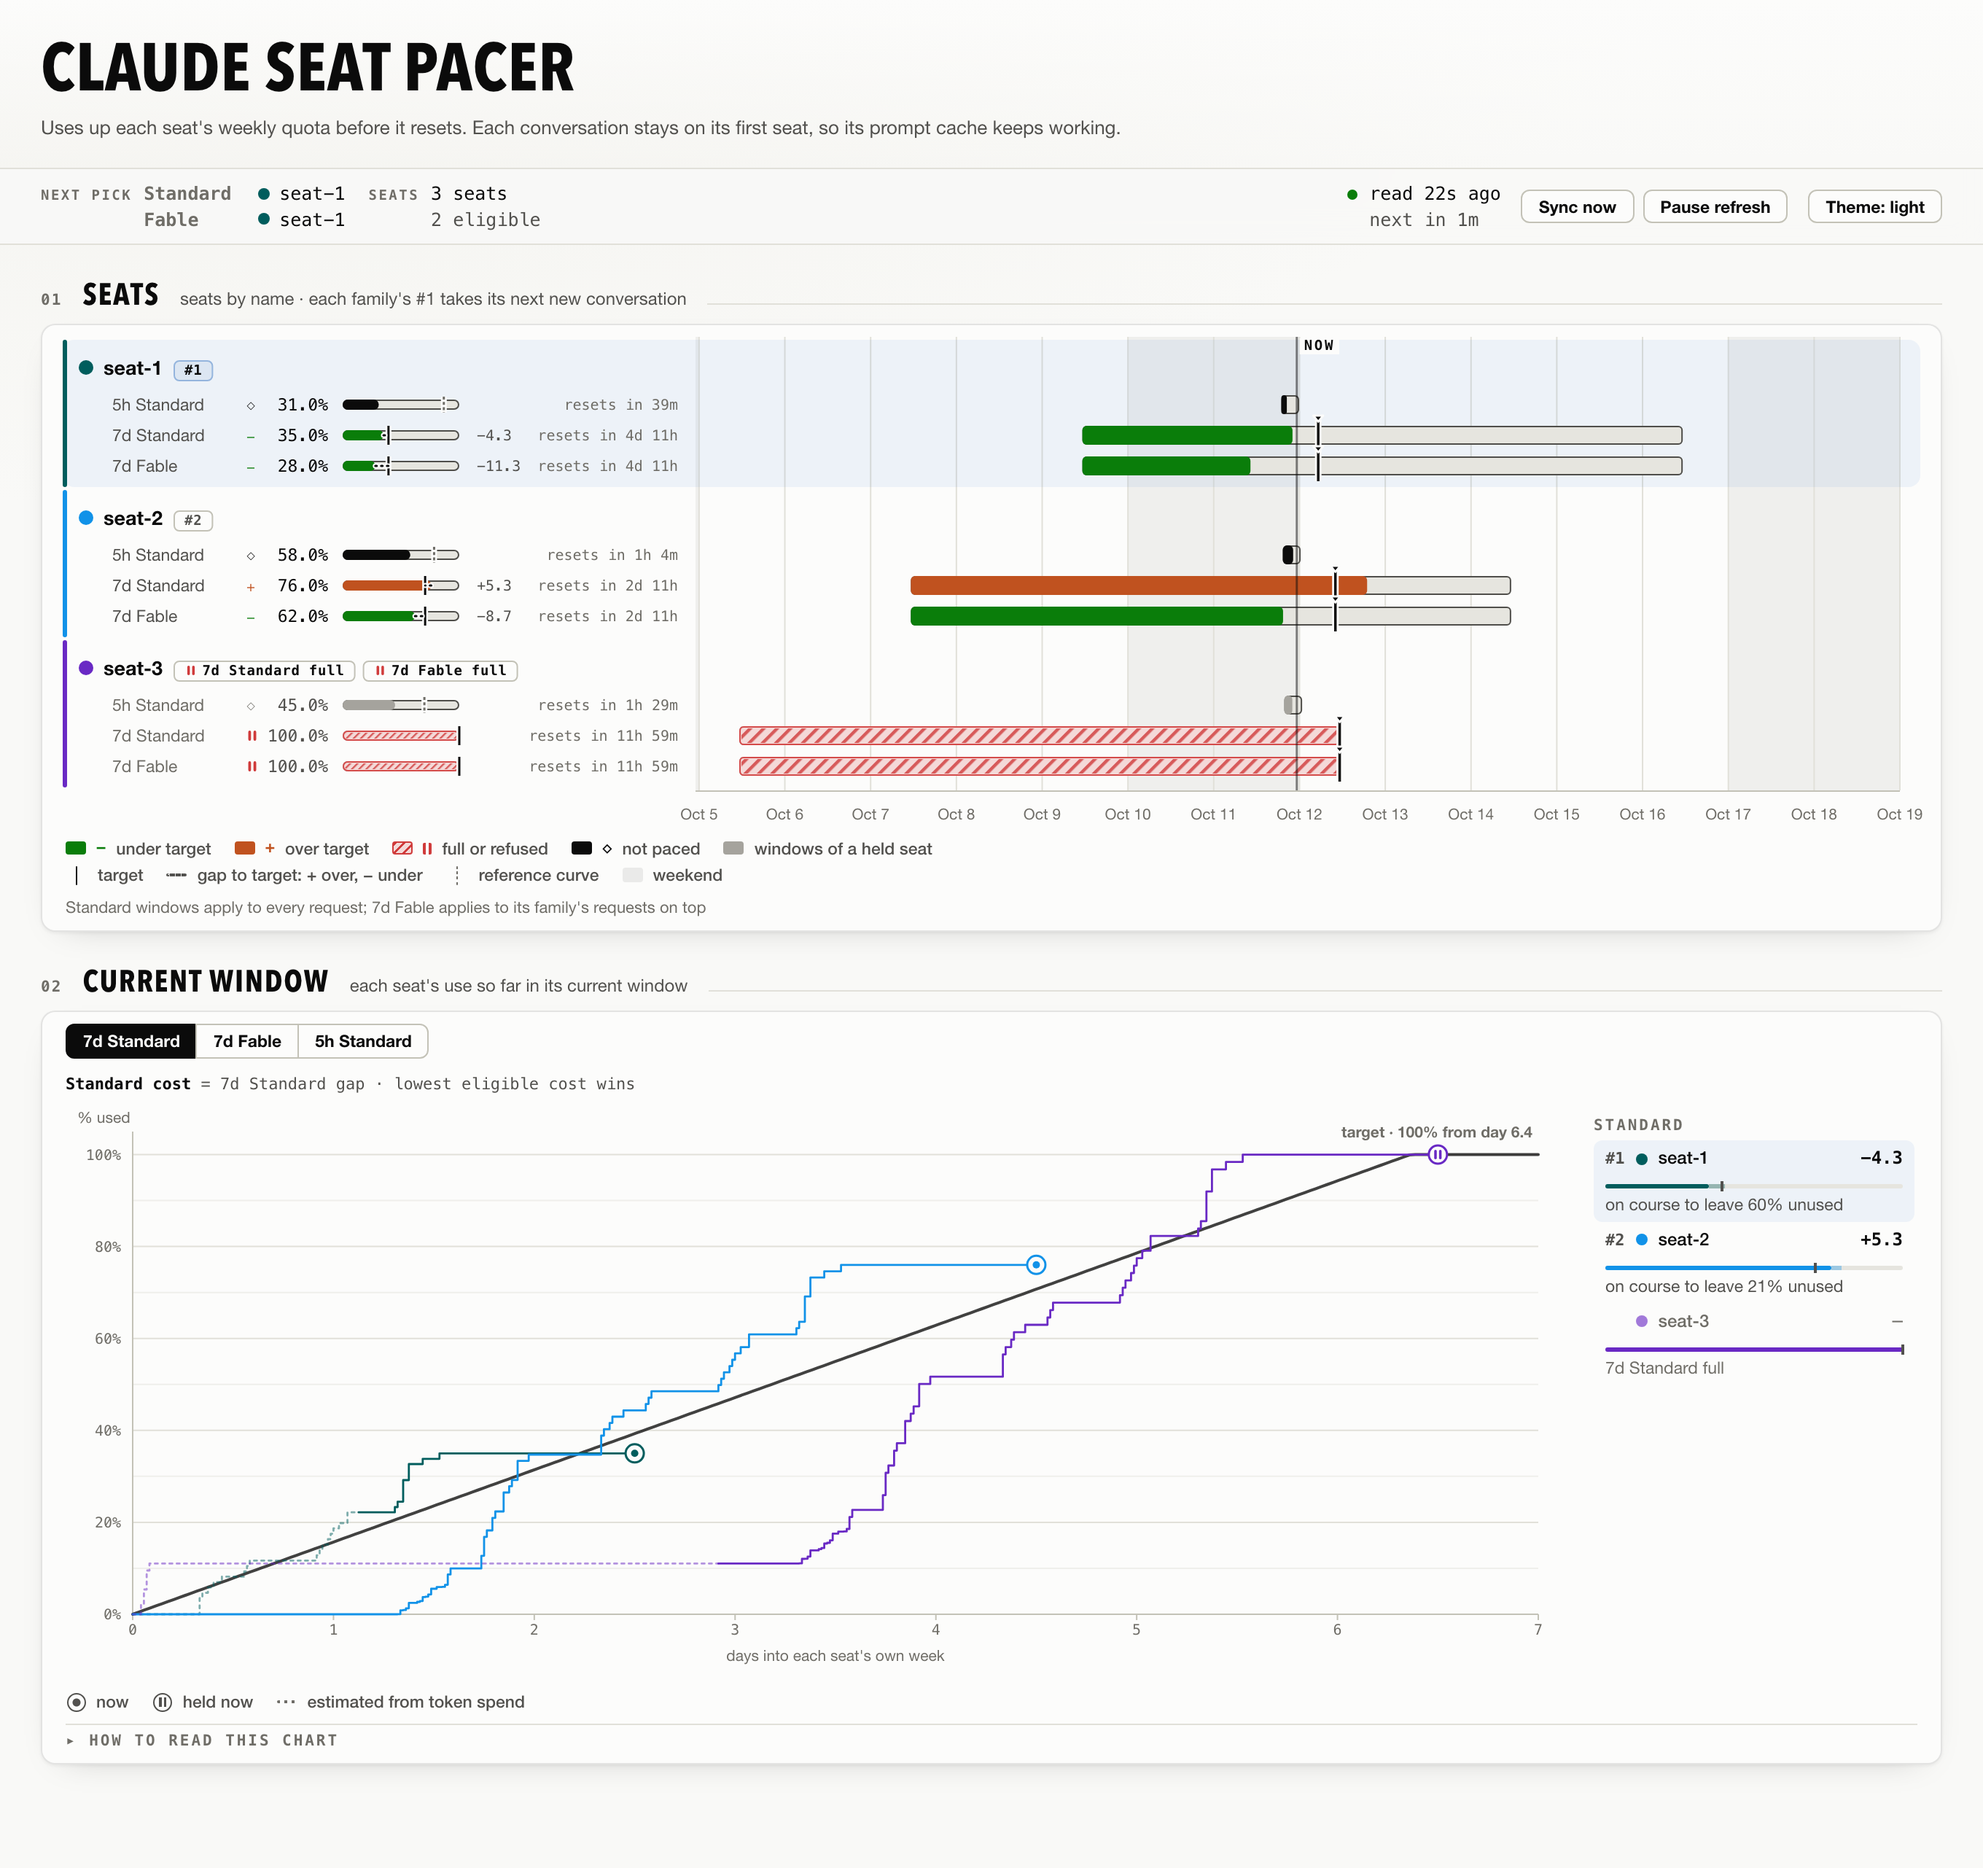
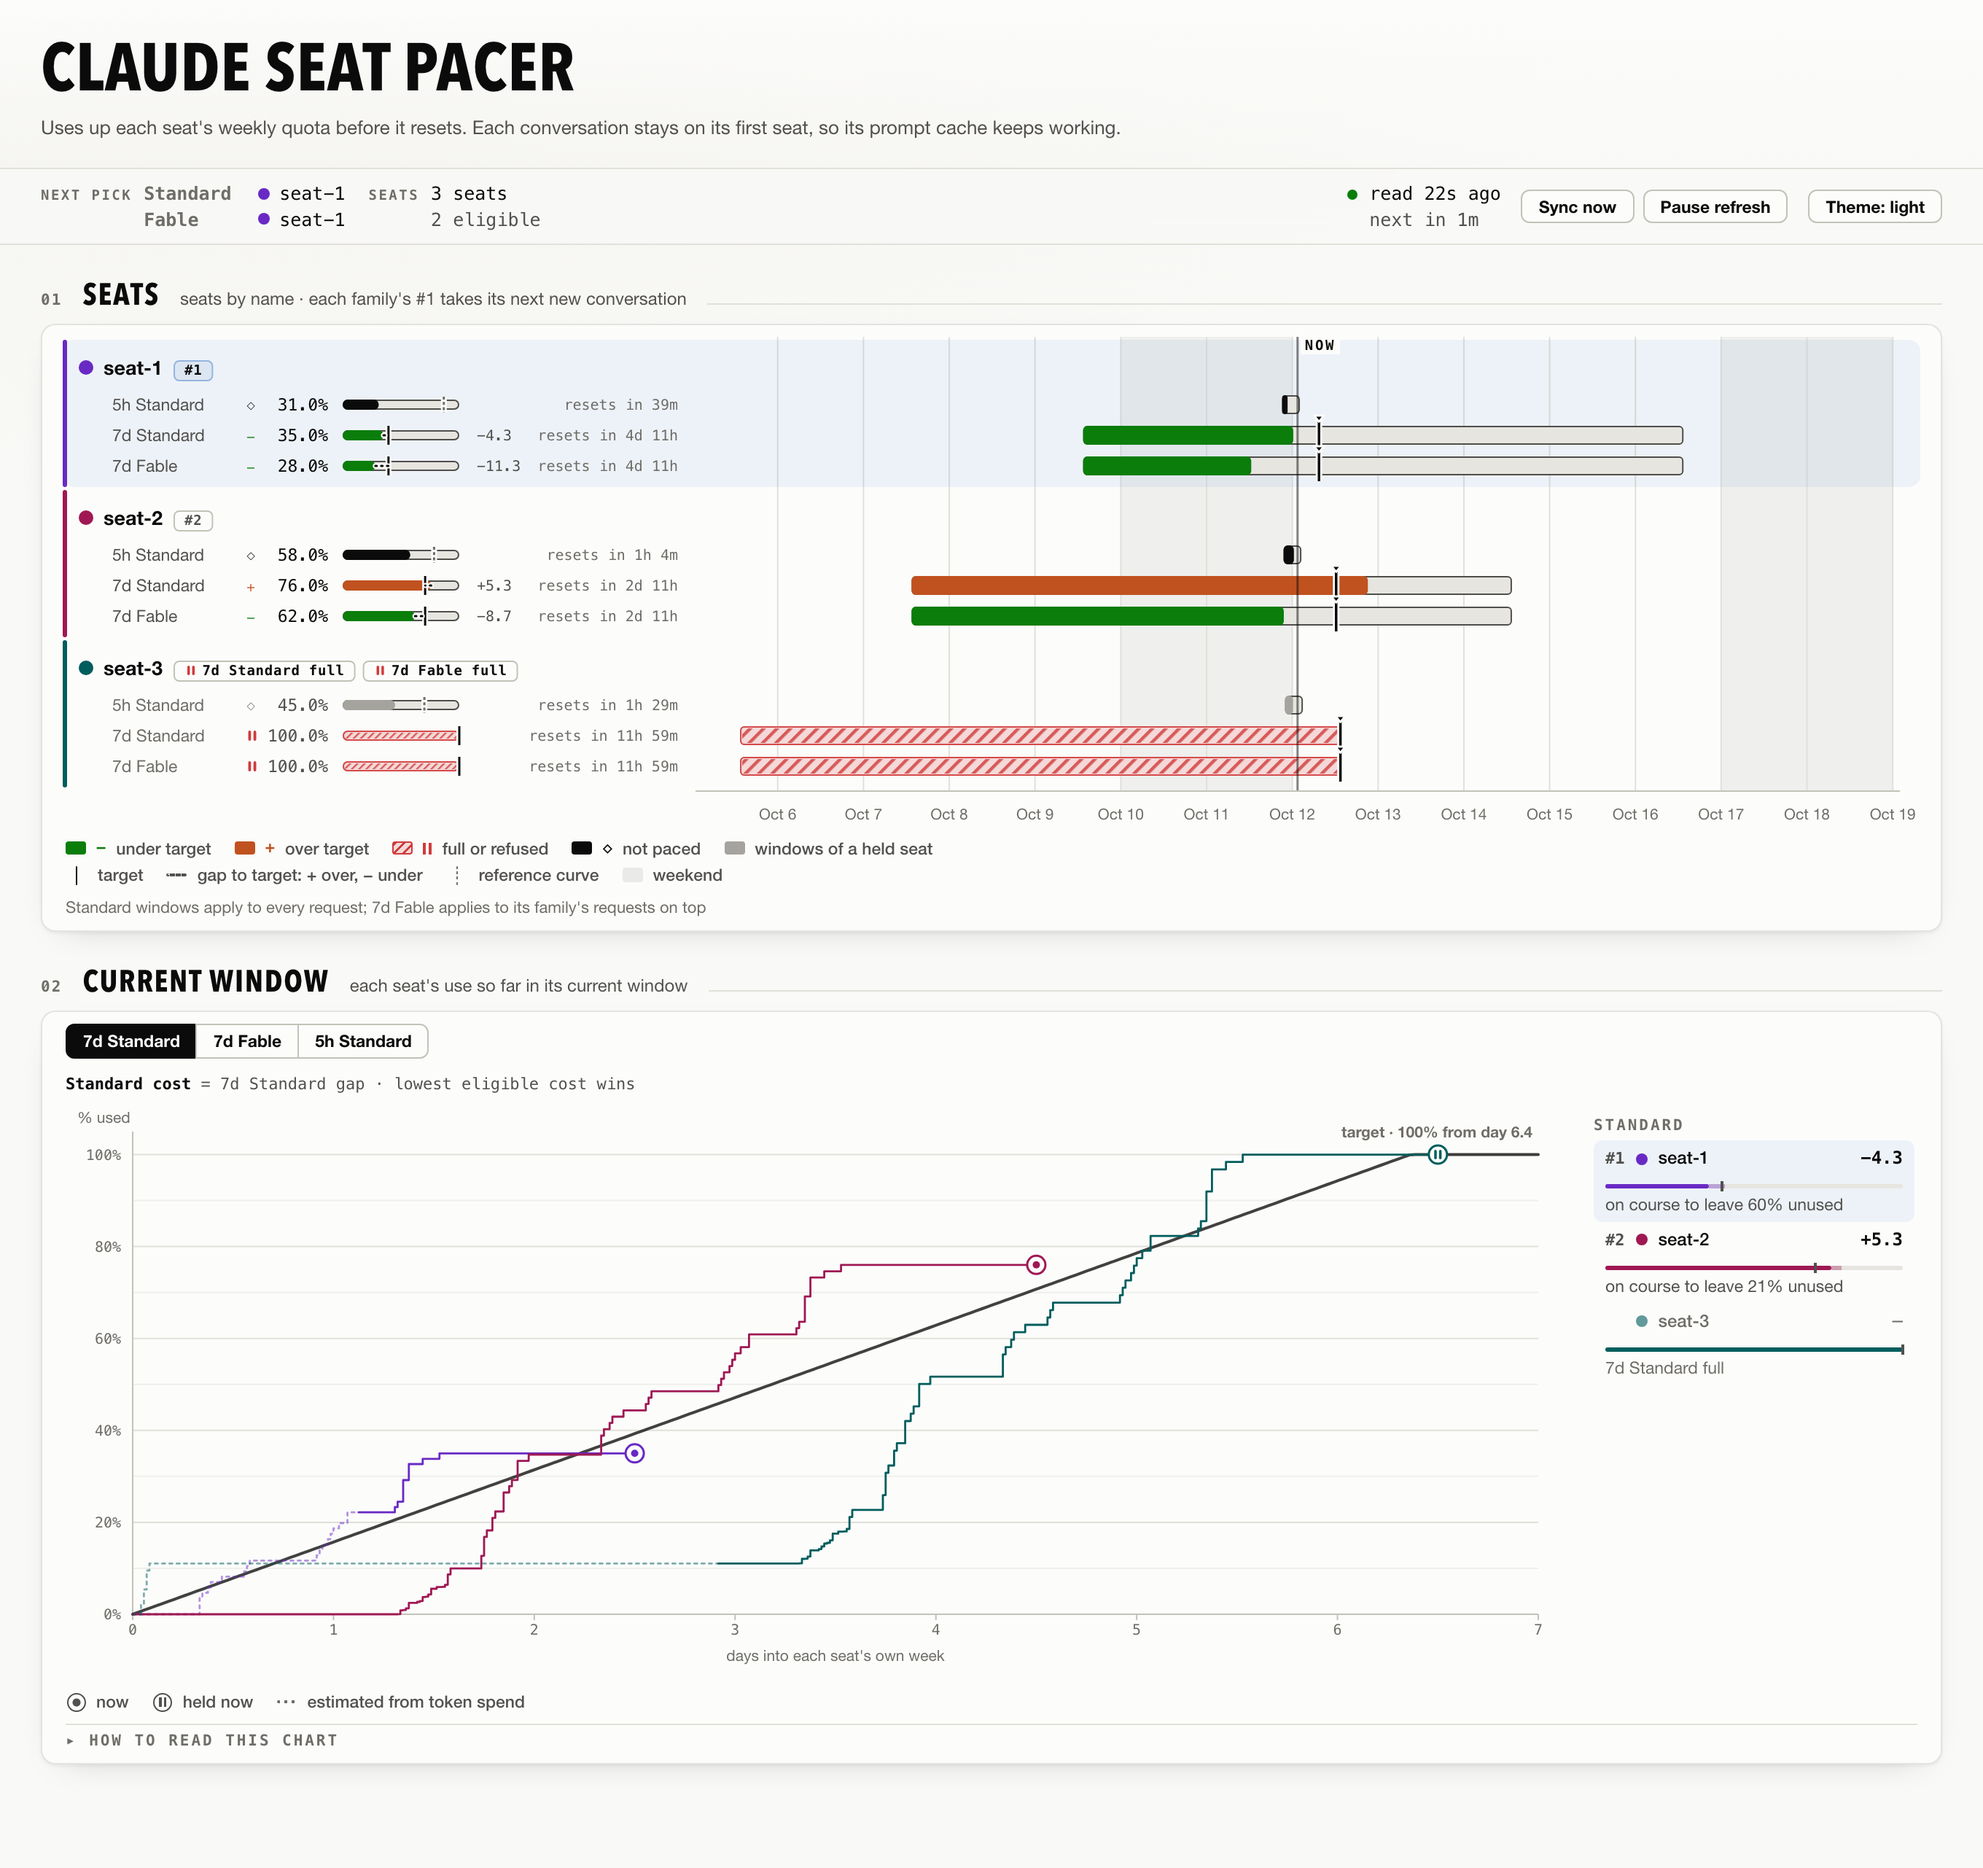
Order the seat hues so the first six stay apart, and keep Cyan 50 off seat 2
The first eight seats take IBM Carbon's categorical order without its reds,
Cyan 50, Green 60, Teal 50 and Purple 50; those four follow, each furthest
from the hues before it. Every pool of up to six seats now keeps each pair at
least ΔE 15 apart, where Cyan 50 beside Blue 50 was ΔE 10.5 apart at six, and
the palette test holds the first six to that bound. Screenshots recaptured.

diff --git a/internal/web/index.html b/internal/web/index.html
@@ -40,26 +40,29 @@
   --critical:     #d03b3b;
   --warning:      #fab219;
 
-  /* Twelve identity hues: IBM Carbon's categorical sequence in its published
-     order, with its two reds left out, since red on a seat reads as an alarm.
-     Carbon ships a light and a dark step for each, and every step clears 3:1
-     on its card. The first four sit at least ΔE 15 apart for typical colour
-     vision (palette_test.go); past them, and under colour-vision deficiency,
-     some pairs sit close, and the seat's name carries the identity. Some hues
-     sit close to a state's hue; every state carries a glyph, so none rests on
-     its hue. */
+  /* Twelve identity hues from IBM Carbon's categorical palette, without its
+     two reds: red on a seat reads as an alarm, and Red 10 is the dark
+     theme's ink. The first eight keep Carbon's published order with Cyan 50,
+     Green 60, Teal 50 and Purple 50 taken out, so the first six sit at least
+     ΔE 15 apart for typical colour vision (palette_test.go); those four
+     follow, each placed furthest from the hues before it, since Cyan 50 sits
+     close to Blue and Teal 50 to Teal 70. Carbon ships a light and a dark
+     step for each, and every step clears 3:1 on its card. Past six seats,
+     and under colour-vision deficiency, some pairs sit close, and the seat's
+     name carries the identity. Some hues sit close to a state's hue; every
+     state carries a glyph, so none rests on its hue. */
   --seat-1:       #6929c4;
-  --seat-2:       #1192e8;
-  --seat-3:       #005d5d;
-  --seat-4:       #9f1853;
-  --seat-5:       #198038;
-  --seat-6:       #002d9c;
-  --seat-7:       #ee538b;
-  --seat-8:       #b28600;
+  --seat-2:       #005d5d;
+  --seat-3:       #9f1853;
+  --seat-4:       #002d9c;
+  --seat-5:       #ee538b;
+  --seat-6:       #b28600;
+  --seat-7:       #012749;
+  --seat-8:       #8a3800;
   --seat-9:       #009d9a;
-  --seat-10:      #012749;
-  --seat-11:      #8a3800;
-  --seat-12:      #a56eff;
+  --seat-10:      #198038;
+  --seat-11:      #a56eff;
+  --seat-12:      #1192e8;
   --seat-x:       #898781;
 
   --pos-text:     #006300;
@@ -87,17 +90,17 @@
     --serious:    #ec835a;
     --info:       #3987e5;
     --seat-1:     #8a3ffc;
-    --seat-2:     #33b1ff;
-    --seat-3:     #007d79;
-    --seat-4:     #ff7eb6;
-    --seat-5:     #6fdc8c;
-    --seat-6:     #4589ff;
-    --seat-7:     #d12771;
-    --seat-8:     #d2a106;
+    --seat-2:     #007d79;
+    --seat-3:     #ff7eb6;
+    --seat-4:     #4589ff;
+    --seat-5:     #d12771;
+    --seat-6:     #d2a106;
+    --seat-7:     #bae6ff;
+    --seat-8:     #ba4e00;
     --seat-9:     #08bdba;
-    --seat-10:    #bae6ff;
-    --seat-11:    #ba4e00;
-    --seat-12:    #d4bbff;
+    --seat-10:    #6fdc8c;
+    --seat-11:    #d4bbff;
+    --seat-12:    #33b1ff;
     --pos-text:   #0ca30c;
     --neg-text:   #e66767;
     --focus:      #3987e5;
@@ -123,17 +126,17 @@
   --serious:    #ec835a;
   --info:       #3987e5;
   --seat-1:     #8a3ffc;
-  --seat-2:     #33b1ff;
-  --seat-3:     #007d79;
-  --seat-4:     #ff7eb6;
-  --seat-5:     #6fdc8c;
-  --seat-6:     #4589ff;
-  --seat-7:     #d12771;
-  --seat-8:     #d2a106;
+  --seat-2:     #007d79;
+  --seat-3:     #ff7eb6;
+  --seat-4:     #4589ff;
+  --seat-5:     #d12771;
+  --seat-6:     #d2a106;
+  --seat-7:     #bae6ff;
+  --seat-8:     #ba4e00;
   --seat-9:     #08bdba;
-  --seat-10:    #bae6ff;
-  --seat-11:    #ba4e00;
-  --seat-12:    #d4bbff;
+  --seat-10:    #6fdc8c;
+  --seat-11:    #d4bbff;
+  --seat-12:    #33b1ff;
   --pos-text:   #0ca30c;
   --neg-text:   #e66767;
   --focus:      #3987e5;

diff --git a/internal/web/palette_test.go b/internal/web/palette_test.go
@@ -10,7 +10,7 @@ import (
 // TestSeatHuesHoldTheirBounds covers every theme the page declares seat hues
 // in: each block declares as many hues as the script assigns, the two dark
 // blocks agree, each hue clears 3:1 against that theme's card, and the first
-// four, which a small pool draws, stay at least ΔE 15 apart in OKLab (×100),
+// six, which a small pool draws, stay at least ΔE 15 apart in OKLab (×100),
 // the distance at which two thin lines read as two series.
 func TestSeatHuesHoldTheirBounds(t *testing.T) {
 	t.Parallel()
@@ -51,8 +51,8 @@ func TestSeatHuesHoldTheirBounds(t *testing.T) {
 				t.Errorf("block %d: --seat-%d %s is %.2f:1 on the card %s, want at least 3:1", bi, n, seats[n], r, card)
 			}
 		}
-		for i := 1; i <= 4; i++ {
-			for j := i + 1; j <= 4; j++ {
+		for i := 1; i <= 6; i++ {
+			for j := i + 1; j <= 6; j++ {
 				if d := oklabDistance(seats[i], seats[j]); d < 15 {
 					t.Errorf("block %d: --seat-%d and --seat-%d are ΔE %.1f apart, want at least 15", bi, i, j, d)
 				}
